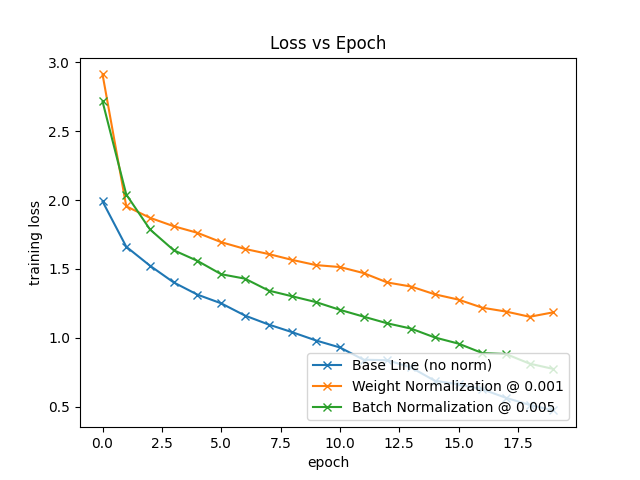
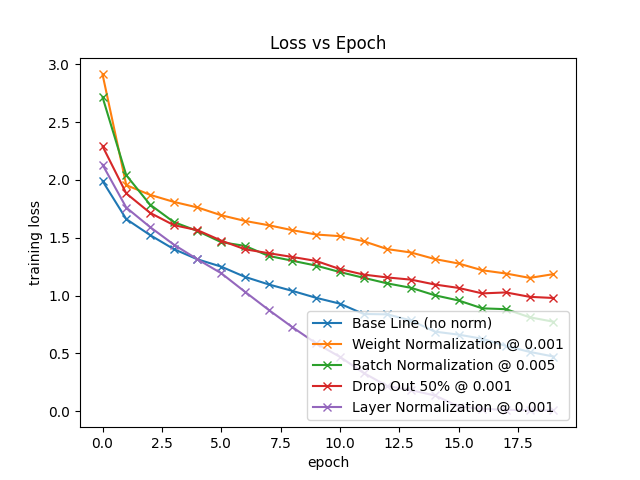
Update for STL10 results

diff --git a/src/readme_chart_generator.py b/src/readme_chart_generator.py
@@ -8,23 +8,34 @@ def create_STL10_003_charts():
         "STL10_baseline_train_metrics",
         "WN_bb_my_norm_training@0.003|Adam|STL10",
         "STL10_batch_norm_3x_train_metrics",
-        "DO_STL10|net_dropout_50_003"
+        "DO_STL10|net_dropout_50_003",
+        "STL10_ln_003_train_metrics"
     ]
 
     bl = load_stats(training_loss_stat_files_003[0])
     wn = load_stats(training_loss_stat_files_003[1])
     bn = load_stats(training_loss_stat_files_003[2])
     do = load_stats(training_loss_stat_files_003[3])
+    ln = load_stats(training_loss_stat_files_003[4])
 
     labels = [
         "Base Line (no norm)",
         "Weight Normalization",
         "Batch Normalization",
         "Drop Out 50%",
+        "Layer Normalization"
+    ]
+
+    training_sets = [
+        bl,
+        wn,
+        bn,
+        do,
+        ln
     ]
 
     # For every config, plot the accuracy across the number of epochs
-    plt = compare_training_stats([bl, wn, bn, do], labels, metric_to_compare='loss', y_label='training loss',
+    plt = compare_training_stats(training_sets, labels, metric_to_compare='loss', y_label='training loss',
                                  title='Loss vs Epoch', legend_loc='lower right')
     save_plt(plt, "STL10-Loss-vs-Epoch-003-Training")
     # plt.show WILL WIPE THE PLT, so make sure you save the plot before you show it
@@ -36,26 +47,30 @@ def create_STL10_custom_charts():
         "STL10_baseline_train_metrics",
         "WN_bb_my_norm_training@0.001|Adam|STL10",
         "STL10_batch_norm_5x_train_metrics",
-        # "DO_STL10|net_dropout_50_001"
+        "DO_STL10|net_dropout_50_lr1",
+        "STL10_ln_001_train_metrics"
     ]
 
     bl = load_stats(training_loss_stat_files_003[0])
     wn = load_stats(training_loss_stat_files_003[1])
     bn = load_stats(training_loss_stat_files_003[2])
-    # do = load_stats(training_loss_stat_files_003[3])
+    do = load_stats(training_loss_stat_files_003[3])
+    ln = load_stats(training_loss_stat_files_003[4])
 
     training_sets = [
         bl,
         wn,
         bn,
-        #do,
+        do,
+        ln,
     ]
 
     labels = [
         "Base Line (no norm)",
         "Weight Normalization @ 0.001",
         "Batch Normalization @ 0.005",
-        # "Drop Out 50% @ 0.001",
+        "Drop Out 50% @ 0.001",
+        "Layer Normalization @ 0.001"
     ]
 
     # For every config, plot the accuracy across the number of epochs

diff --git a/README.md b/README.md
@@ -69,8 +69,8 @@ Setup:
 | --- | --- | --- |
 | Weight Normalization | 43.3 | 46.6 |
 | Batch Normalization | 56.8875 | 60.1 |
-| Drop Out | 43.89 | |
-| Layer Normalization | | |
+| Drop Out | 43.89 | 52.08 |
+| Layer Normalization | 46.75 | 57.0 |
 | Instance Normalization | | |
 
 ### Tiny ImageNet Task Performance per Normalization
